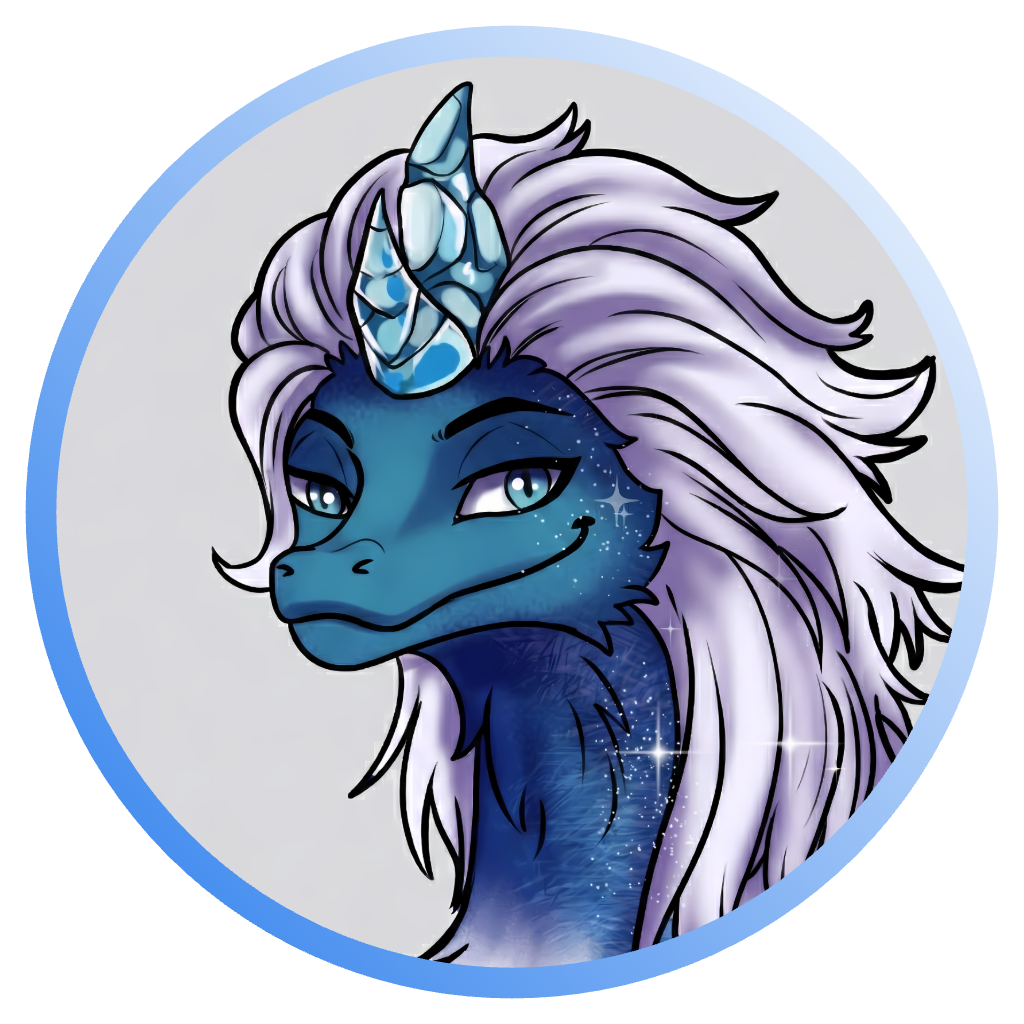
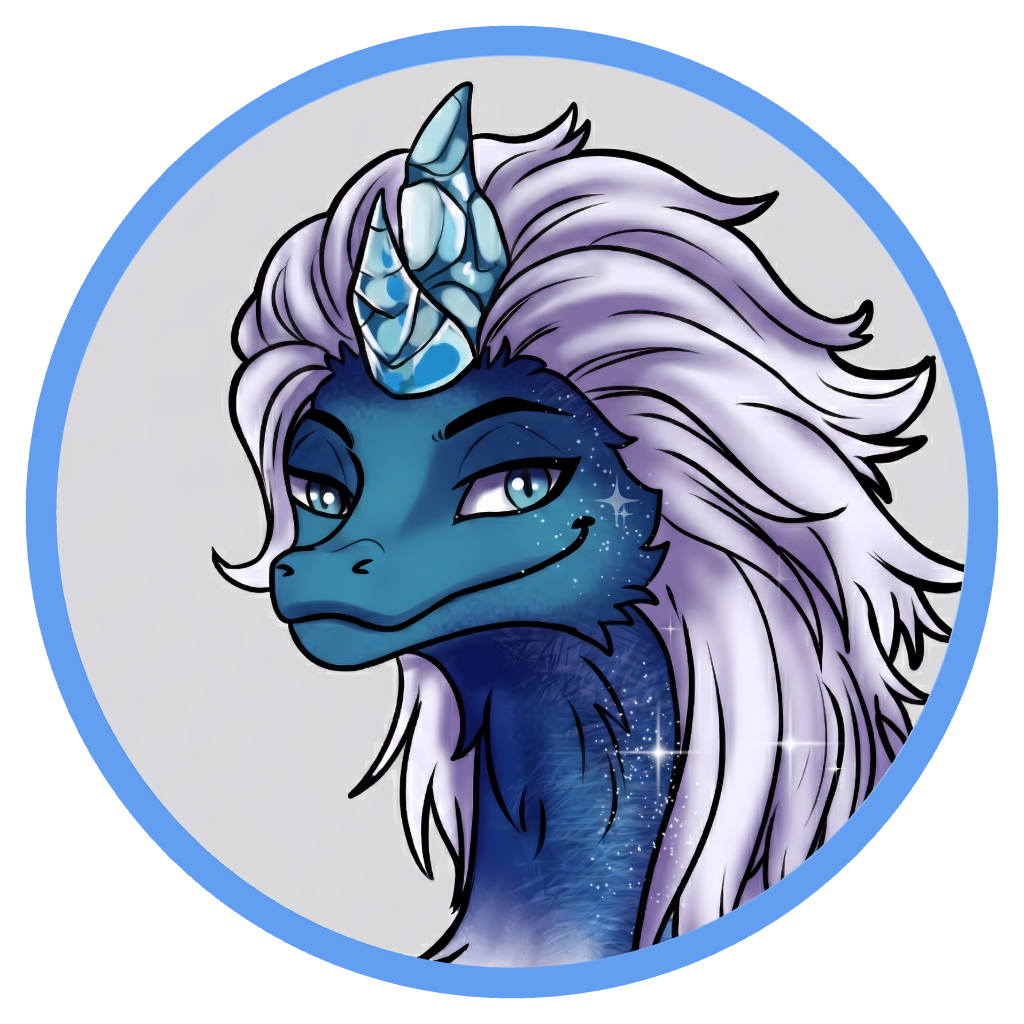
Recolour the profile picture's baked ring to solid blue, no pale arc (sw v150)

diff --git a/sw.js b/sw.js
@@ -13,7 +13,7 @@
    ========================================================================== */
 'use strict';
 
-const CACHE = 'kazu-shell-v149';
+const CACHE = 'kazu-shell-v150';
 const PRECACHE = [
   './',
   './index.html',
